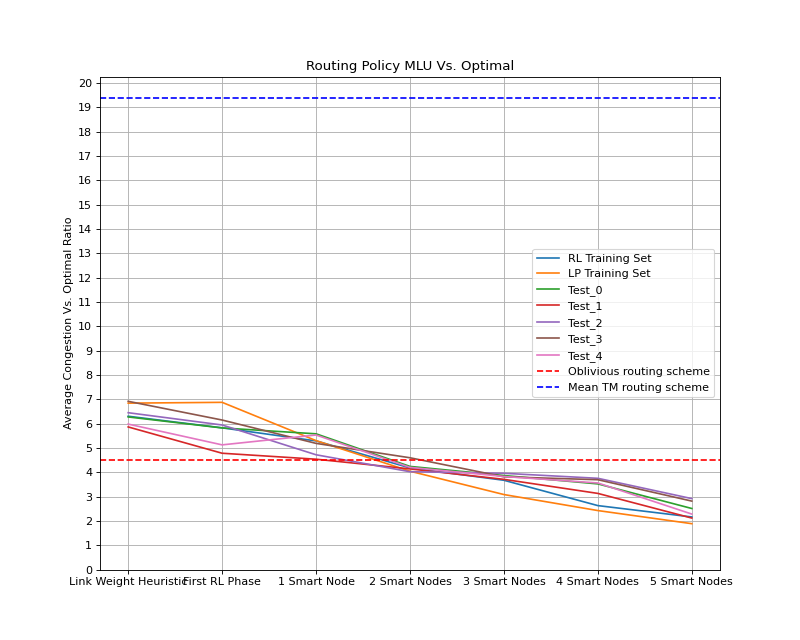
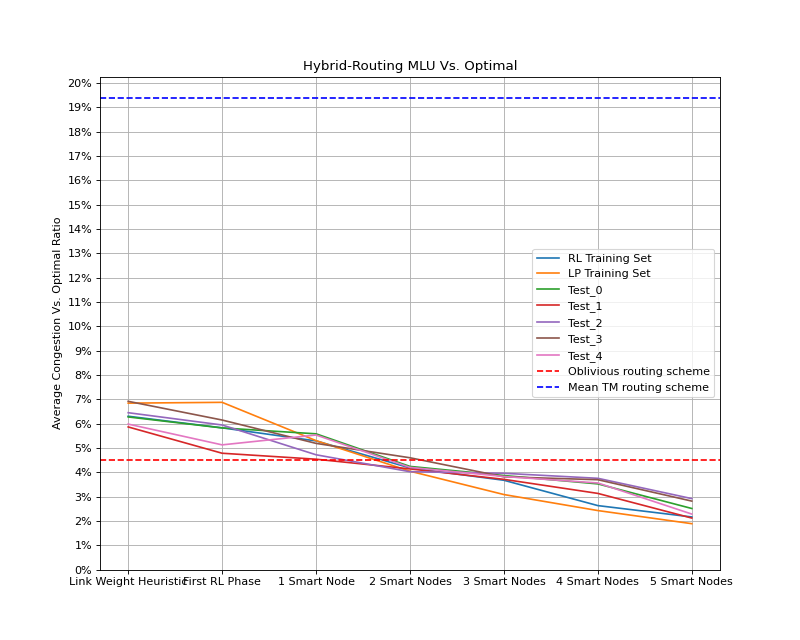
graphs and Evaluations_v2.xlsx

diff --git a/Smart_Nodes_Routing/plots/graphs_generator.py b/Smart_Nodes_Routing/plots/graphs_generator.py
@@ -1,24 +1,29 @@
 import numpy as np
 import matplotlib.pyplot as plt
+import matplotlib.ticker as mtick
 
 
 def plot_baselines_graphs(save_file, x_labels, y_labels, y_data, h_lines=None):
     y_max = 0
-    title: str = "Routing Policy MLU Vs. Optimal"
+    title: str = "Hybrid-Routing MLU Vs. Optimal"
     fig = plt.figure(figsize=(10, 8), dpi=80)
+    ax = fig.add_subplot(1, 1, 1)
     for i in range(len(y_labels)):
-        plt.plot(x_labels, y_data[i], label=y_labels[i])
+        ax.plot(x_labels, y_data[i], label=y_labels[i])
         y_max = max(y_max, max(y_data[i]))
 
     plt.ylabel("Average Congestion Vs. Optimal Ratio")
     if h_lines is not None:
         for h_line in h_lines:
-            plt.axhline(y=h_line[0], label=h_line[1], color=h_line[2], linestyle="dashed")
+            ax.axhline(y=h_line[0], label=h_line[1], color=h_line[2], linestyle="dashed")
             y_max = max(y_max, h_line[0])
     plt.title(title)
     plt.legend()
     plt.grid()
     plt.yticks(np.arange(0, y_max + 1, step=1))
+    fmt = '%.0f%%'  # Format you want the ticks, e.g. '40%'
+    yticks = mtick.FormatStrFormatter(fmt)
+    ax.yaxis.set_major_formatter(yticks)
     plt.savefig(save_file)
     plt.show()
 
